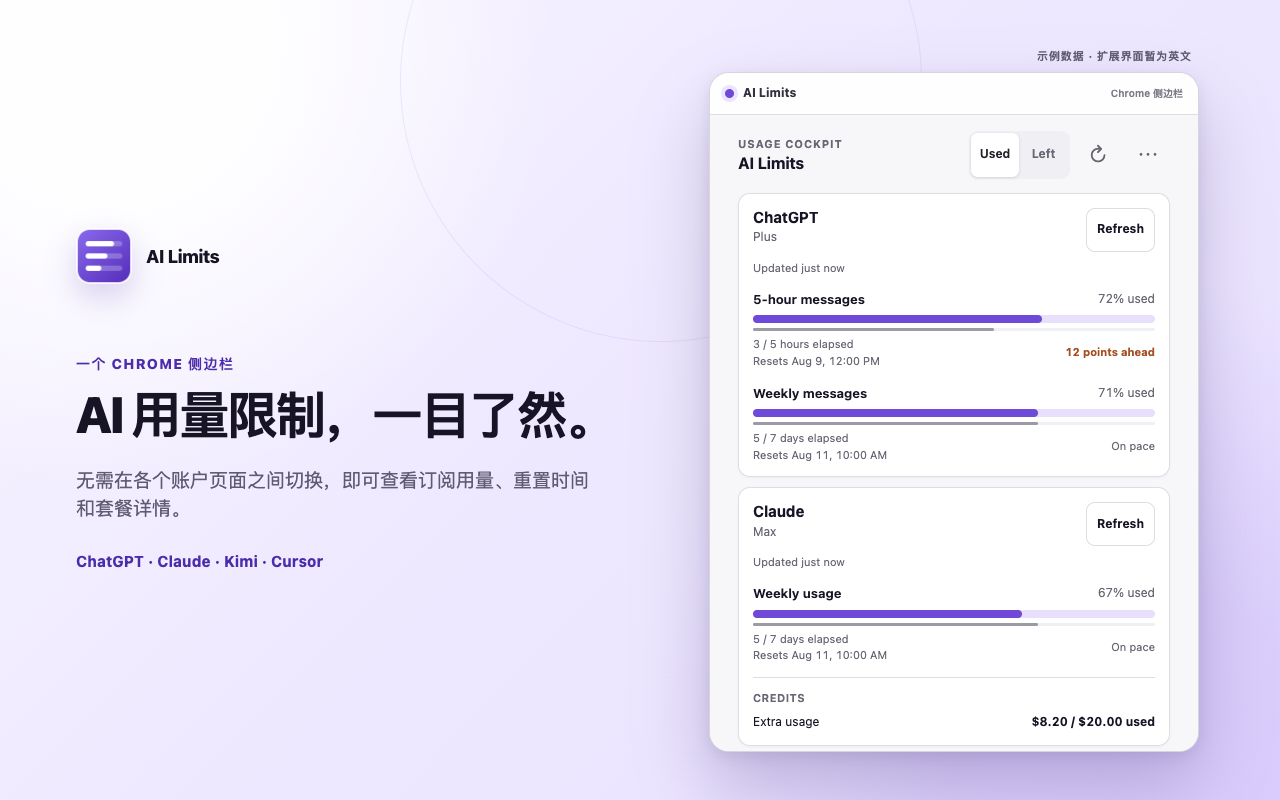
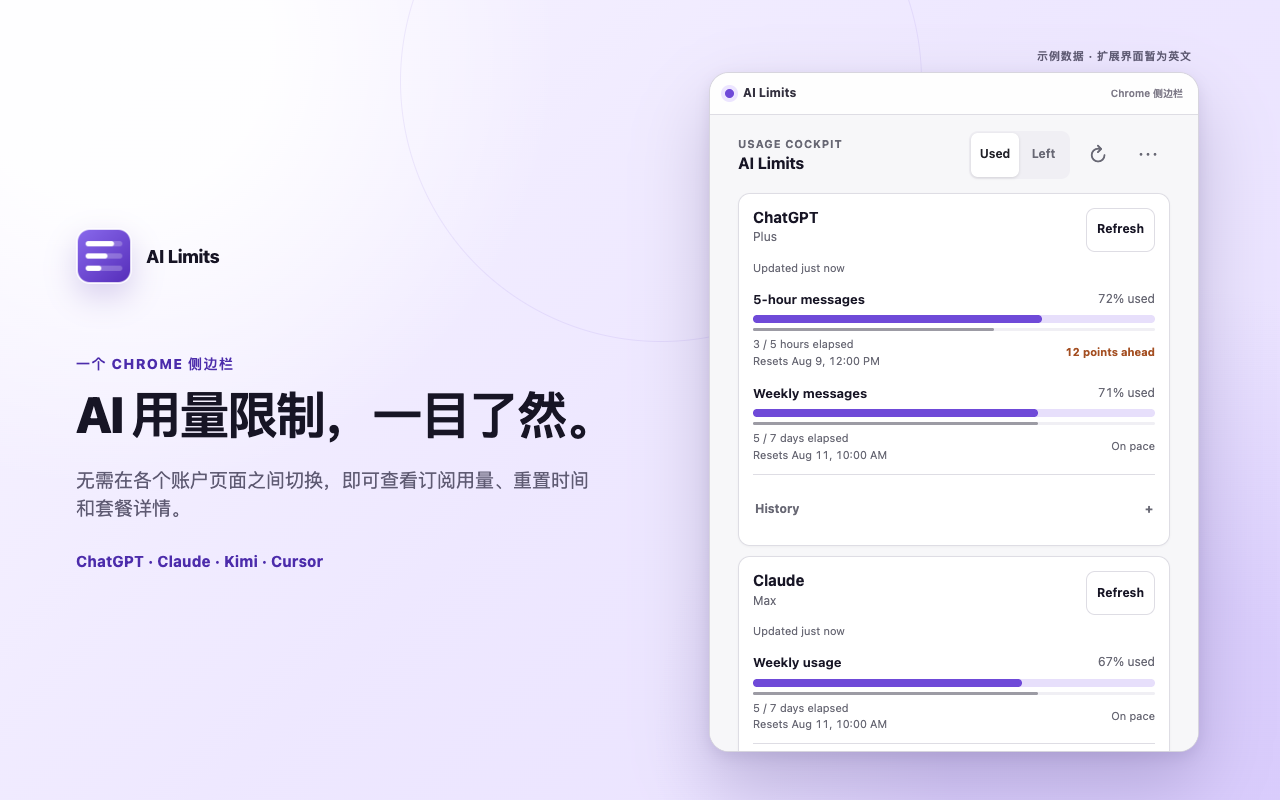
docs: disclose local usage history

Changed region(s): [[0.5625, 0.625, 0.9062, 0.9375], [0.8438, 0.625, 0.9062, 0.6562]]

diff --git a/scripts/publication-contract.test.js b/scripts/publication-contract.test.js
@@ -3,6 +3,8 @@ import { validatePublicationDocuments } from "./publication-contract.mjs";
 
 const issuesUrl = "https://github.com/wjcjttl/ai-limits/issues";
 const issuesLink = `[GitHub Issues](${issuesUrl})`;
+const historyRetentionStatement =
+  "Successful normalized quota observations are stored locally for up to 30 days.";
 const securityCondition =
   "If GitHub private vulnerability reporting is available in the repository's **Security** tab, use it for sensitive reports.";
 const securityFallback =
@@ -68,6 +70,7 @@ const valid = {
   privacy: [
     issuesLink,
     "AI Limits complies with the Chrome Web Store User Data Policy, including the Limited Use requirements.",
+    historyRetentionStatement,
   ].join("\n"),
   security: [issuesLink, securityCondition, securityFallback].join("\n"),
   listing: [
@@ -161,6 +164,16 @@ describe("publication content", () => {
   it("requires an affirmative Limited Use statement", () => {
     const errors = validatePublicationDocuments({ ...valid, privacy: "Privacy policy" });
     expect(errors).toContain("Privacy policy is missing the Limited Use compliance statement.");
+  });
+
+  it("requires the privacy policy to disclose the 30-day local quota-history limit", () => {
+    const errors = validatePublicationDocuments({
+      ...valid,
+      privacy: valid.privacy.replace(historyRetentionStatement, ""),
+    });
+    expect(errors).toContain(
+      "Privacy policy is missing the 30-day local quota-history disclosure.",
+    );
   });
 
   it.each(policyDocuments)(

diff --git a/store-assets/preview/styles.css b/store-assets/preview/styles.css
@@ -233,8 +233,12 @@ body {
   max-width: 460px;
 }
 
+.capture-page--pacing {
+  padding-block: 16px;
+}
+
 .capture-page--pacing .extension-frame {
-  height: 622px;
+  height: 740px;
 }
 
 .capture-page--privacy .marketing-copy h1 {

diff --git a/STORE_LISTING.md b/STORE_LISTING.md
@@ -35,14 +35,14 @@ Regeneration and validation instructions are in
 
 ## Single purpose
 
-AI Limits gives a user one Chrome side panel for viewing subscription usage and
-reset timing from four provider accounts already signed in within that user's
-browser profile.
+AI Limits gives a user one Chrome side panel for viewing current subscription
+usage, reset timing, and local quota-history graphs from four provider accounts
+already signed in within that user's browser profile.
 
 ## Short description
 
-See ChatGPT, Claude, Kimi, and Cursor subscription usage in one Chrome side
-panel.
+See current ChatGPT, Claude, Kimi, and Cursor usage and local quota history in
+one Chrome side panel.
 
 ## Detailed description
 
@@ -51,6 +51,15 @@ account pages. Connect ChatGPT, Claude, Kimi, or Cursor individually, approve
 that provider's optional access, and view the usage windows, reset times,
 credits, and plan labels that the provider makes available to the signed-in web
 session.
+
+Each connected provider card includes a collapsed History control for local
+quota graphs. Successful normalized quota observations are stored locally for
+up to 30 days. The newest 48 hours remain at full collection resolution; older
+observations keep only the latest value in each UTC hour. History begins with
+one valid locally stored current snapshot on upgrade or with subsequent
+successful refreshes. The extension does not reconstruct earlier provider
+history and does not store credit-balance history. History is never transmitted
+to the developer.
 
 The extension stores normalized results in the local Chrome profile. Refresh
 can be manual or automatic about every 15 minutes. Settings let the user turn
@@ -67,10 +76,10 @@ compatibility may change without notice.
 ### Required permissions
 
 - `storage`: saves display and refresh preferences, provider access state,
-  normalized quota/credit snapshots, and sanitized refresh status in
-  `chrome.storage.local`. It also holds temporary Kimi tab-cleanup lease
-  metadata in `chrome.storage.session`. Session cookies and access credentials
-  are not persisted.
+  normalized quota/credit snapshots, up to 30 days of quota-only history, and
+  sanitized refresh status in `chrome.storage.local`. It also holds temporary
+  Kimi tab-cleanup lease metadata in `chrome.storage.session`. Session cookies
+  and access credentials are not persisted.
 - `alarms`: schedules the approximately 15-minute refresh cycle only while
   automatic refresh is enabled and at least one provider is connected.
 - `sidePanel`: displays the extension's only application interface in Chrome's
@@ -122,7 +131,8 @@ does not create or activate provider tabs.
 - **Financial and payment information:** Yes, limited to provider-reported
   usage-credit balances, extra-usage amounts or limits, and on-demand spend
   limits included in a usage response. Payment cards, bank details, and
-  transaction histories are not accessed.
+  transaction histories are not accessed. The local history feature does not
+  retain these credit fields over time.
 - **Web history:** No browsing history or list of visited pages is collected or
   retained. During Kimi collection, AI Limits may check for an already-open tab
   matching the exact Kimi origin.
@@ -132,9 +142,14 @@ does not create or activate provider tabs.
 - **Sale or unrelated sharing:** No. Data is not sold and is not sent to the
   developer, advertisers, data brokers, or unrelated third parties.
 - **Analytics, advertising, telemetry, or remote backend:** None.
-- **Retention and controls:** Normalized data stays in the local Chrome profile
-  until provider disconnect, **Delete all local data**, extension uninstall, or
-  browser-storage clearing. Users can disable automatic refresh at any time.
+- **Retention and controls:** Successful normalized quota observations stay in
+  the local Chrome profile for up to 30 days. The newest 48 hours stay at full
+  collection resolution; older observations keep the latest value in each UTC
+  hour. Disconnect or permission revocation removes that provider's history;
+  **Delete all local data** removes every provider's history even if a
+  permission cannot be revoked. Extension uninstall or browser-storage clearing
+  also removes the local record. Users can disable automatic refresh at any
+  time.
 - **Use limitation:** Data is used only to provide the usage dashboard, refresh
   health, permission lifecycle, and user-requested settings. It is not used for
   advertising, credit decisions, or purposes unrelated to the single purpose.
@@ -176,6 +191,8 @@ The full policy is in [PRIVACY.md](PRIVACY.md).
    the Cursor origin, and confirm available monthly model usage and on-demand
    credit data appears. Use the card's **Refresh** action once.
 6. Use the header refresh and confirm connected providers retain their previous
-   visible data while refreshing. In Settings, turn automatic refresh off and
-   on, disconnect one provider, then use **Delete all local data** and confirm
-   the cards return to the permission-required state.
+   visible data while refreshing. Open a connected card's collapsed **History**
+   control and confirm a successful refresh adds quota history without adding
+   credit history. In Settings, turn automatic refresh off and on, disconnect
+   one provider, then use **Delete all local data** and confirm the cards return
+   to the permission-required state.

diff --git a/PRIVACY.md b/PRIVACY.md
@@ -1,6 +1,6 @@
 # Privacy Policy
 
-Last updated: August 9, 2026
+Last updated: August 10, 2026
 
 AI Limits is a locally running Chrome extension by wjcjttl. This policy
 describes version 0.1.0.
@@ -18,6 +18,8 @@ extension reads and normalizes:
 - plan, subscription, or organization labels;
 - quota-window labels, usage or remaining ratios and amounts, limit units,
   window start times, reset times, and durations;
+- quota history made from successful normalized observations of those
+  quota-window fields;
 - credit balances, limits, usage, units, and reset times; and
 - refresh timestamps and sanitized success, retry, sign-in, challenge,
   temporary-error, or response-change status.
@@ -66,27 +68,40 @@ contains display and automatic-refresh preferences, provider permission state,
 the normalized usage fields listed above, and sanitized refresh-attempt
 metadata. It does not contain provider cookies or access credentials.
 
+Successful normalized quota observations are stored locally for up to 30 days.
+Every observation from the newest 48 hours remains at full collection
+resolution. Older observations are compacted to the latest observation in each
+UTC hour until they age out. This history contains quota-window usage only: it
+does not retain credit balances, limits, usage, or reset times. Failed,
+deferred, skipped, or malformed refresh results do not add observations.
+When existing extension state is upgraded for this feature, one valid normalized
+current snapshot can become the first observation at its original `fetchedAt`
+time. The extension does not query a provider to reconstruct or backfill any
+earlier history.
+
 The local record remains in the current Chrome profile until you disconnect a
 provider, choose **Delete all local data**, uninstall the extension, or clear
 the extension's browser storage:
 
 - **Disconnect** first revokes that provider's optional access, then deletes
-  that provider's saved snapshot and refresh history. If Chrome cannot revoke
-  the permission, AI Limits reports failure and keeps the local provider data
-  so it does not falsely claim disconnection.
+  that provider's saved snapshot, quota history, and refresh-attempt history.
+  If Chrome cannot revoke the permission, AI Limits reports failure and keeps
+  the local provider data so it does not falsely claim disconnection.
 - **Delete all local data** stops refresh work, clears the refresh alarm,
   attempts to revoke every provider permission, removes saved usage, and writes
-  a clean default settings record. If any permission cannot be revoked, saved
-  usage is still removed and automatic refresh remains off.
+  a clean default settings record with no quota history. If any permission
+  cannot be revoked, saved usage and quota history are still removed and
+  automatic refresh remains off.
 - An exact provider-permission removal event first invalidates that provider's
-  active refresh and unconditionally clears its local snapshot and refresh
-  history. Only then does AI Limits sample authoritative permission state to
-  set the final access flag. A rapid regrant can therefore restore connected
-  access, but it cannot restore the deleted usage history. If permission is
-  revoked while the background worker is asleep, the next reconciliation
-  clears data when a stored grant is authoritatively absent; it also clears any
-  legacy permission-required record that still contains a snapshot or refresh
-  history. Empty never-connected permission-required records remain unchanged.
+  active refresh and unconditionally clears its local snapshot, quota history,
+  and refresh-attempt history. Only then does AI Limits sample authoritative
+  permission state to set the final access flag. A rapid regrant can therefore
+  restore connected access, but it cannot restore the deleted usage history.
+  If permission is revoked while the background worker is asleep, the next
+  reconciliation clears data when a stored grant is authoritatively absent; it
+  also clears any legacy permission-required record that still contains a
+  snapshot or history. Empty never-connected permission-required records remain
+  unchanged.
 
 ## Automatic refresh
 
@@ -103,6 +118,9 @@ reporting, or telemetry. The extension does not sell personal data and does not
 share it with the developer, advertisers, data brokers, or unrelated third
 parties. Provider requests go only to the provider service you selected, which
 processes those requests under its own terms and privacy policy.
+
+Quota history remains in the local Chrome profile and is never transmitted to
+the developer.
 
 The extension does not log session credentials or saved usage data. Opening a
 support link or filing an issue is a separate action you take outside the

diff --git a/README.md b/README.md
@@ -2,10 +2,10 @@
 
 English | [简体中文](README.zh-CN.md)
 
-AI Limits is a Chrome side-panel extension that shows subscription usage for
-ChatGPT, Claude, Kimi, and Cursor in one compact view. It starts empty and reads
-usage only after you connect an individual provider and approve that provider's
-optional access.
+AI Limits is a Chrome side-panel extension that shows current subscription
+usage and local quota-history graphs for ChatGPT, Claude, Kimi, and Cursor in
+one compact view. It starts empty and reads usage only after you connect an
+individual provider and approve that provider's optional access.
 
 AI Limits is an independent project by wjcjttl. It is not affiliated with,
 endorsed by, or authorized by OpenAI, Anthropic, Moonshot AI, Cursor, or their
@@ -18,8 +18,14 @@ affiliates.
 - Each provider is opt-in. Chrome asks for only that provider's site access.
 - The extension sends low-frequency, read-only requests to the provider's own
   web-session usage services. It does not scrape rendered page content.
-- Normalized quota, credit, plan, refresh-status, and preference data is stored
-  in Chrome extension storage on the local browser profile.
+- The latest normalized quota, credit, plan, refresh-status, and preference data
+  is stored in Chrome extension storage on the local browser profile.
+- After each successful normalized refresh, quota observations are stored
+  locally for up to 30 days for the History graphs. The newest 48 hours remain
+  at full collection resolution; older observations keep only the latest value
+  in each UTC hour. On upgrade, one valid current snapshot can become the first
+  observation at its original fetch time; the extension does not reconstruct
+  earlier provider history and does not store credit-balance history.
 - Session cookies and access credentials are used only for the current provider
   collection attempt and are not saved in persistent extension storage.
 - Automatic refresh is enabled by default and runs about every 15 minutes only

diff --git a/README.zh-CN.md b/README.zh-CN.md
@@ -3,8 +3,9 @@
 [English](README.md) | 简体中文
 
 AI Limits 是一款 Chrome 侧边栏扩展，可在一个紧凑的界面中查看 ChatGPT、
-Claude、Kimi 和 Cursor 的订阅用量。扩展初始不读取任何数据；只有当你主动
-连接某个服务并批准该服务的可选访问权限后，才会读取其用量。
+Claude、Kimi 和 Cursor 的当前订阅用量及本地配额历史图表。扩展初始不读取
+任何数据；只有当你主动连接某个服务并批准该服务的可选访问权限后，才会读取
+其用量。
 
 AI Limits 是 wjcjttl 开发的独立项目，与 OpenAI、Anthropic、Moonshot AI、
 Cursor 或其关联公司不存在隶属、背书或授权关系。
@@ -19,8 +20,12 @@ Cursor 或其关联公司不存在隶属、背书或授权关系。
 - 每个服务都需要单独启用。Chrome 只会请求该服务的网站访问权限。
 - 扩展以较低频率向服务商自己的网站会话用量接口发送只读请求，不会抓取
   页面中渲染的内容。
-- 标准化后的配额、余额、套餐、刷新状态和偏好设置会保存在当前浏览器配置
+- 最新的标准化配额、余额、套餐、刷新状态和偏好设置会保存在当前浏览器配置
   文件的 Chrome 扩展本地存储中。
+- 每次刷新成功并完成标准化后，扩展会将配额观测值在本地保存最多 30 天，用于
+  “History”历史图表。最近 48 小时保留每次观测；更早的数据只保留每个 UTC
+  小时内的最后一次观测。升级时，一个有效的当前快照可能按其原始获取时间成为
+  第一条观测；扩展不会重建更早的服务商历史，也不会记录余额历史。
 - 会话 Cookie 和访问凭据仅在本次服务数据收集过程中使用，不会保存到扩展的
   持久化存储中。
 - 只要仍有至少一个已连接的服务，自动刷新就会默认开启，并大约每 15 分钟

diff --git a/store-assets/README.md b/store-assets/README.md
@@ -61,9 +61,10 @@ The preview uses the fixed instant `2026-08-09T14:00:00.000Z`, forces light
 mode, `en-US`, `America/Toronto`, and a device scale factor of 1, and creates a
 fresh browser context without a user profile. The `locale=zh_CN` preview option
 localizes only the surrounding project copy; it intentionally leaves the
-production extension UI in English. The pacing image scrolls only the
-side-panel frame. The privacy image opens the real Settings view through its
-real button.
+production extension UI in English. The pacing image uses a taller capture-only
+side-panel frame and scrolls only that frame so the complete Kimi and Cursor
+cards, including their collapsed History controls, remain visible at production
+scale. The privacy image opens the real Settings view through its real button.
 
 Never generate store artwork from a browser profile, extension storage,
 provider website, network credential, or live provider response. Representative
